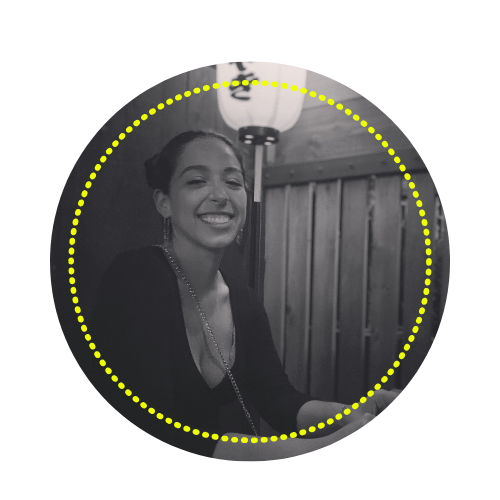
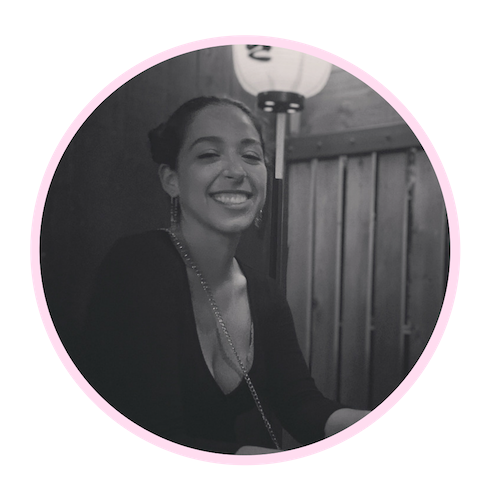
services updated

Changed region(s): [[0.06, 0.06, 0.93, 0.93]]

diff --git a/index.html b/index.html
@@ -17,7 +17,7 @@
     <link href="https://fonts.googleapis.com/css?family=Anton|Fjalla+One" rel="stylesheet">
     <link href="https://fonts.googleapis.com/css?family=Pacifico" rel="stylesheet">
     <link rel="stylesheet" type="text/css" href="style/style.css">
-   
+
     <title>Ontiveros</title>
 </head>
 
@@ -26,68 +26,32 @@
     <nav>
         <h1> ONTIVEROS </h1>
         <div class="navSearchItems">
-            <a id="nav-item" href="#about"> ABOUT</a>
-            <a id="nav-item" href="#portfolio"> SERVICES</a>
-            <a id="nav-item" href="#portfolio"> PORTFOLIO</a>
-            <a id="nav-item" href="#contact"> CONTACT</a>
+            <a id="nav-item" href="#aboutPage"> ABOUT</a>
+            <a id="nav-item" href="#portfolioPage"> PORTFOLIO</a>
+            <a id="nav-item" href="#servicesPage"> SERVICES</a>
+            <a id="nav-item" href="#contactPage"> CONTACT</a>
     </nav>
     <!-- about me -->
     <div class="jumbotron" id="aboutPage">
         <div class='row'>
-                <div class="col-md-12">
-                        
-                                <img src="./assets/images/pinky.png" id='pic' alt="me, myself and I">
-                          
-                    </div>
+            <div class="col-md-12">
+
+                <img src="./assets/images/circle-me.png" id='pic' alt="me, myself and I">
+
+            </div>
         </div>
         <div class="container" id="main-body-message">
-                <div class="row">
-                       
-                            <div class="col-md-12">
-                                <div id="tagline">
-                                    <h2 id="passion">Web developer with a passion for <span id="changeText">social good</span></h2>
-                                </div>
-                                </div>
-                </div>
-            </div>
-    </div>
-
-    <div class="jumbotron" id="servicesPage">
-        <h1 class='subtitle' id='servicesTitle' name="about">SERVICES</h1>
-        <div class="container" id="main-body-message">
-            <p id="serviceBio">My goal is to provide a positive end to end experience for creating a digital presence
-                with the client in mind. I’ll work with you to define exactly what you need from your website and to
-                ensure that your mission statement is consistent and clearly showcased across all platforms.</p>
             <div class="row">
-                <div class="col-md-4">
-                    <h2 class="serviceSubTitle">Branding</h2>
-                    <ul>
-                        <li>Logo Design</li>
-                        <li>Business Card Design</li>
-                        <li>Social Media Presence</li>
-                    </ul>
-                </div>
-                <div class="col-md-4">
-                    <h2 class="serviceSubTitle">Design</h2>
-                    <ul>
-                        <li>User Friendly</li>
-                        <li>Mobile Responsive</li>
-                        <li>Dynamic & Fast</li>
-                    </ul>
-                </div>
-                <div class="col-md-4">
-                    <h2 class="serviceSubTitle">Development</h2>
-                    <ul>
-                        <li>Clean Code</li>
-                        <li>Deployment</li>
-                        <li>Website Maintenance</li>
-                    </ul>
-                </div>
 
+                <div class="col-md-12">
+                    <div id="tagline">
+                        <h2 id="passion">Web developer with a passion for <span id="changeText">social good</span></h2>
+                    </div>
+                </div>
             </div>
-
         </div>
     </div>
+    <!-- portfolio -->
     <div class="jumbotron" id="portfolioPage">
         <h1 class='subtitle' id='portfolioTitle' name="portfolio">PORTFOLIO</h1>
         <div class="container" id="main-body-message">
@@ -128,8 +92,7 @@
                     </div>
                 </div>
             </div>
-            <!-- </div>
-    </div> -->
+
             <div class='row'>
                 <div class='col-md-12' id="bottomCard">
                     <div class="card-group">
@@ -176,10 +139,49 @@
         </div>
     </div>
 
+    <!-- services -->
+    <div class="jumbotron" id="servicesPage">
+        <h1 class='subtitle' id='servicesTitle'>SERVICES</h1>
+        <div class="container" id="main-body-message">
+            <p id="serviceBio">My goal is to provide a positive end to end experience for creating a digital presence
+                with the client in mind. I’ll work with you to define exactly what you need from your website and to
+                ensure that your mission statement is consistent and clearly showcased across all platforms.</p>
+            <div class="row">
+                <div class="col-md-4">
+                        <img src="./assets/images/Branding.png" class='branding' alt="branding">
+                    <!-- <h2 class="serviceSubTitle">Branding</h2>
+                    <ul>
+                        <li>Logo Design</li>
+                        <li>Business Card Design</li>
+                        <li>Social Media Presence</li>
+                    </ul> -->
+                </div>
+                <div class="col-md-4">
+                        <img src="./assets/images/Design.png" class='branding' alt="design">
+                    <!-- <h2 class="serviceSubTitle">Design</h2>
+                    <ul>
+                        <li>User Friendly</li>
+                        <li>Mobile Responsive</li>
+                        <li>Dynamic & Fast</li>
+                    </ul> -->
+                </div>
+                <div class="col-md-4">
+                        <img src="./assets/images/Development.png" class='branding' alt="development">
+                    <!-- <h2 class="serviceSubTitle">Development</h2>
+                    <ul>
+                        <li>Clean Code</li>
+                        <li>Deployment</li>
+                        <li>Website Maintenance</li>
+                    </ul> -->
+                </div>
 
+            </div>
 
-    <!-- footer -->
-    <div class=jumbotron id="contactJumbotron">
+        </div>
+    </div>
+
+    <!-- conatct -->
+    <div class=jumbotron id="contactPage">
         <div class="container" id="contactInfo">
             <div class="row">
                 <div class="col-md-2">
@@ -221,7 +223,13 @@
                 </div>
             </div>
         </div>
+        <!-- footer  -->
+        <footer>
+            <p id="handle">@barbi105</p>
+            
+        </footer>
 
+        <!-- javascript -->
         <script src="https://ajax.googleapis.com/ajax/libs/jquery/1.9.1/jquery.min.js"></script>
         <script type="text/javascript" src="./server.js"></script>
 

diff --git a/style/style.css b/style/style.css
@@ -20,23 +20,25 @@ body{
   margin: 0 10px;
 }
 .navSearchItems a:hover {
-  color: #FFDDF1
+  /* color: #FFDDF1 */
+  color: #F26BAC;
 }
 nav {
   display: flex;
   align-items: center;
   justify-content: space-between;
   position: fixed;
-  z-index: 99;
+  z-index: 1;
   width: 100%;
   font-family: 'Open Sans', sans-serif;
   /* background: white; */
   /* background: black; */
-
+  background-color: rgb(245, 246, 247);
   /* box-shadow: -1px -16px 90px -13px rgba(0,0,0,0.75); */
-  /* border-top: 15px solid #C0C9FF;
-  border-left: 15px solid #C0C9FF;
-  border-right: 15px solid #C0C9FF; */
+ border-top: 15px solid black; 
+  border-left: 15px solid black;
+  border-right: 15px solid black;
+  top:0;
 }
 
 nav h1 {
@@ -51,7 +53,10 @@ nav h1 {
 /* font-family: 'Fjalla One', sans-serif; */
 /* text-shadow: 0px 3px 15px rgba(0,0,0,0.2); */
 text-shadow: -0.06em -0.04em rgb(255, 179, 179),  0.06em 0.04em rgb(179, 235, 250); 
-
+transition: transform .2s;
+}
+nav h1:hover{
+  transform: scale(1.05);
 }
 
 /* nav h1:hover{
@@ -68,7 +73,8 @@ text-shadow: -0.06em -0.04em rgb(255, 179, 179),  0.06em 0.04em rgb(179, 235, 25
   text-align: center;
   margin: 20px 15px;
   border-radius: 0%;
-  background-color: white;
+  /* background-color: white; */
+  background-color: rgb(245, 246, 247);
   margin-bottom: 0;
   /* box-shadow: -1px -16px 90px -13px rgba(0,0,0,0.75); */
 }
@@ -89,13 +95,13 @@ text-shadow: -0.06em -0.04em rgb(255, 179, 179),  0.06em 0.04em rgb(179, 235, 25
   margin-bottom: 70px;
 }
 #passion{
-  text-align: left;
+  /* text-align: left; */
   font-size: 45px;
   /* font-family: 'Pacifico', cursive; */
   font-family: 'Lobster', cursive;
   /* font-family: 'Lobster Two', cursive; */
   margin-bottom:45px;
-  margin-left: 140px;
+  /* margin-left: 140px; */
 }
 /* #changeText{
   font-size: 35px;
@@ -106,6 +112,10 @@ text-shadow: -0.06em -0.04em rgb(255, 179, 179),  0.06em 0.04em rgb(179, 235, 25
   margin-top: 75px;
   width: 300px;
   height: 300px;
+  transition: transform .2s;
+}
+#pic:hover{
+  transform: scale(1.1);
 }
 #tagline{
   margin-top:50px;
@@ -144,6 +154,10 @@ ul {
   margin-left: 60px;
   color: #404040;
 }
+.branding{
+  width:350px;
+  height:350px;
+}
 /* portfolio */
 #portfolioPage{
   margin-top: 0;
@@ -161,8 +175,8 @@ margin-bottom: 140px;
   max-width: 302.4px;
 } */
 
-/* footer */
-#contactJumbotron{
+/* conatct */
+#contactPage{
 margin-top:0;
 background-color: black;
 }
@@ -179,4 +193,20 @@ form {
   font-size: 70px;
   margin-bottom: 30px;
   margin-top: 30px;
+}
+footer{
+  position: fixed;
+  bottom: 0;
+  background-color: black;
+  width: 100%;
+  color: white;
+  left: 0;
+  text-align: right;
+}
+#handle{
+  margin-bottom: 0;
+  font-size: 14px;
+  padding: 3px;
+  font-family: 'Lato', sans-serif;
+  margin-right: 50px;
 }
